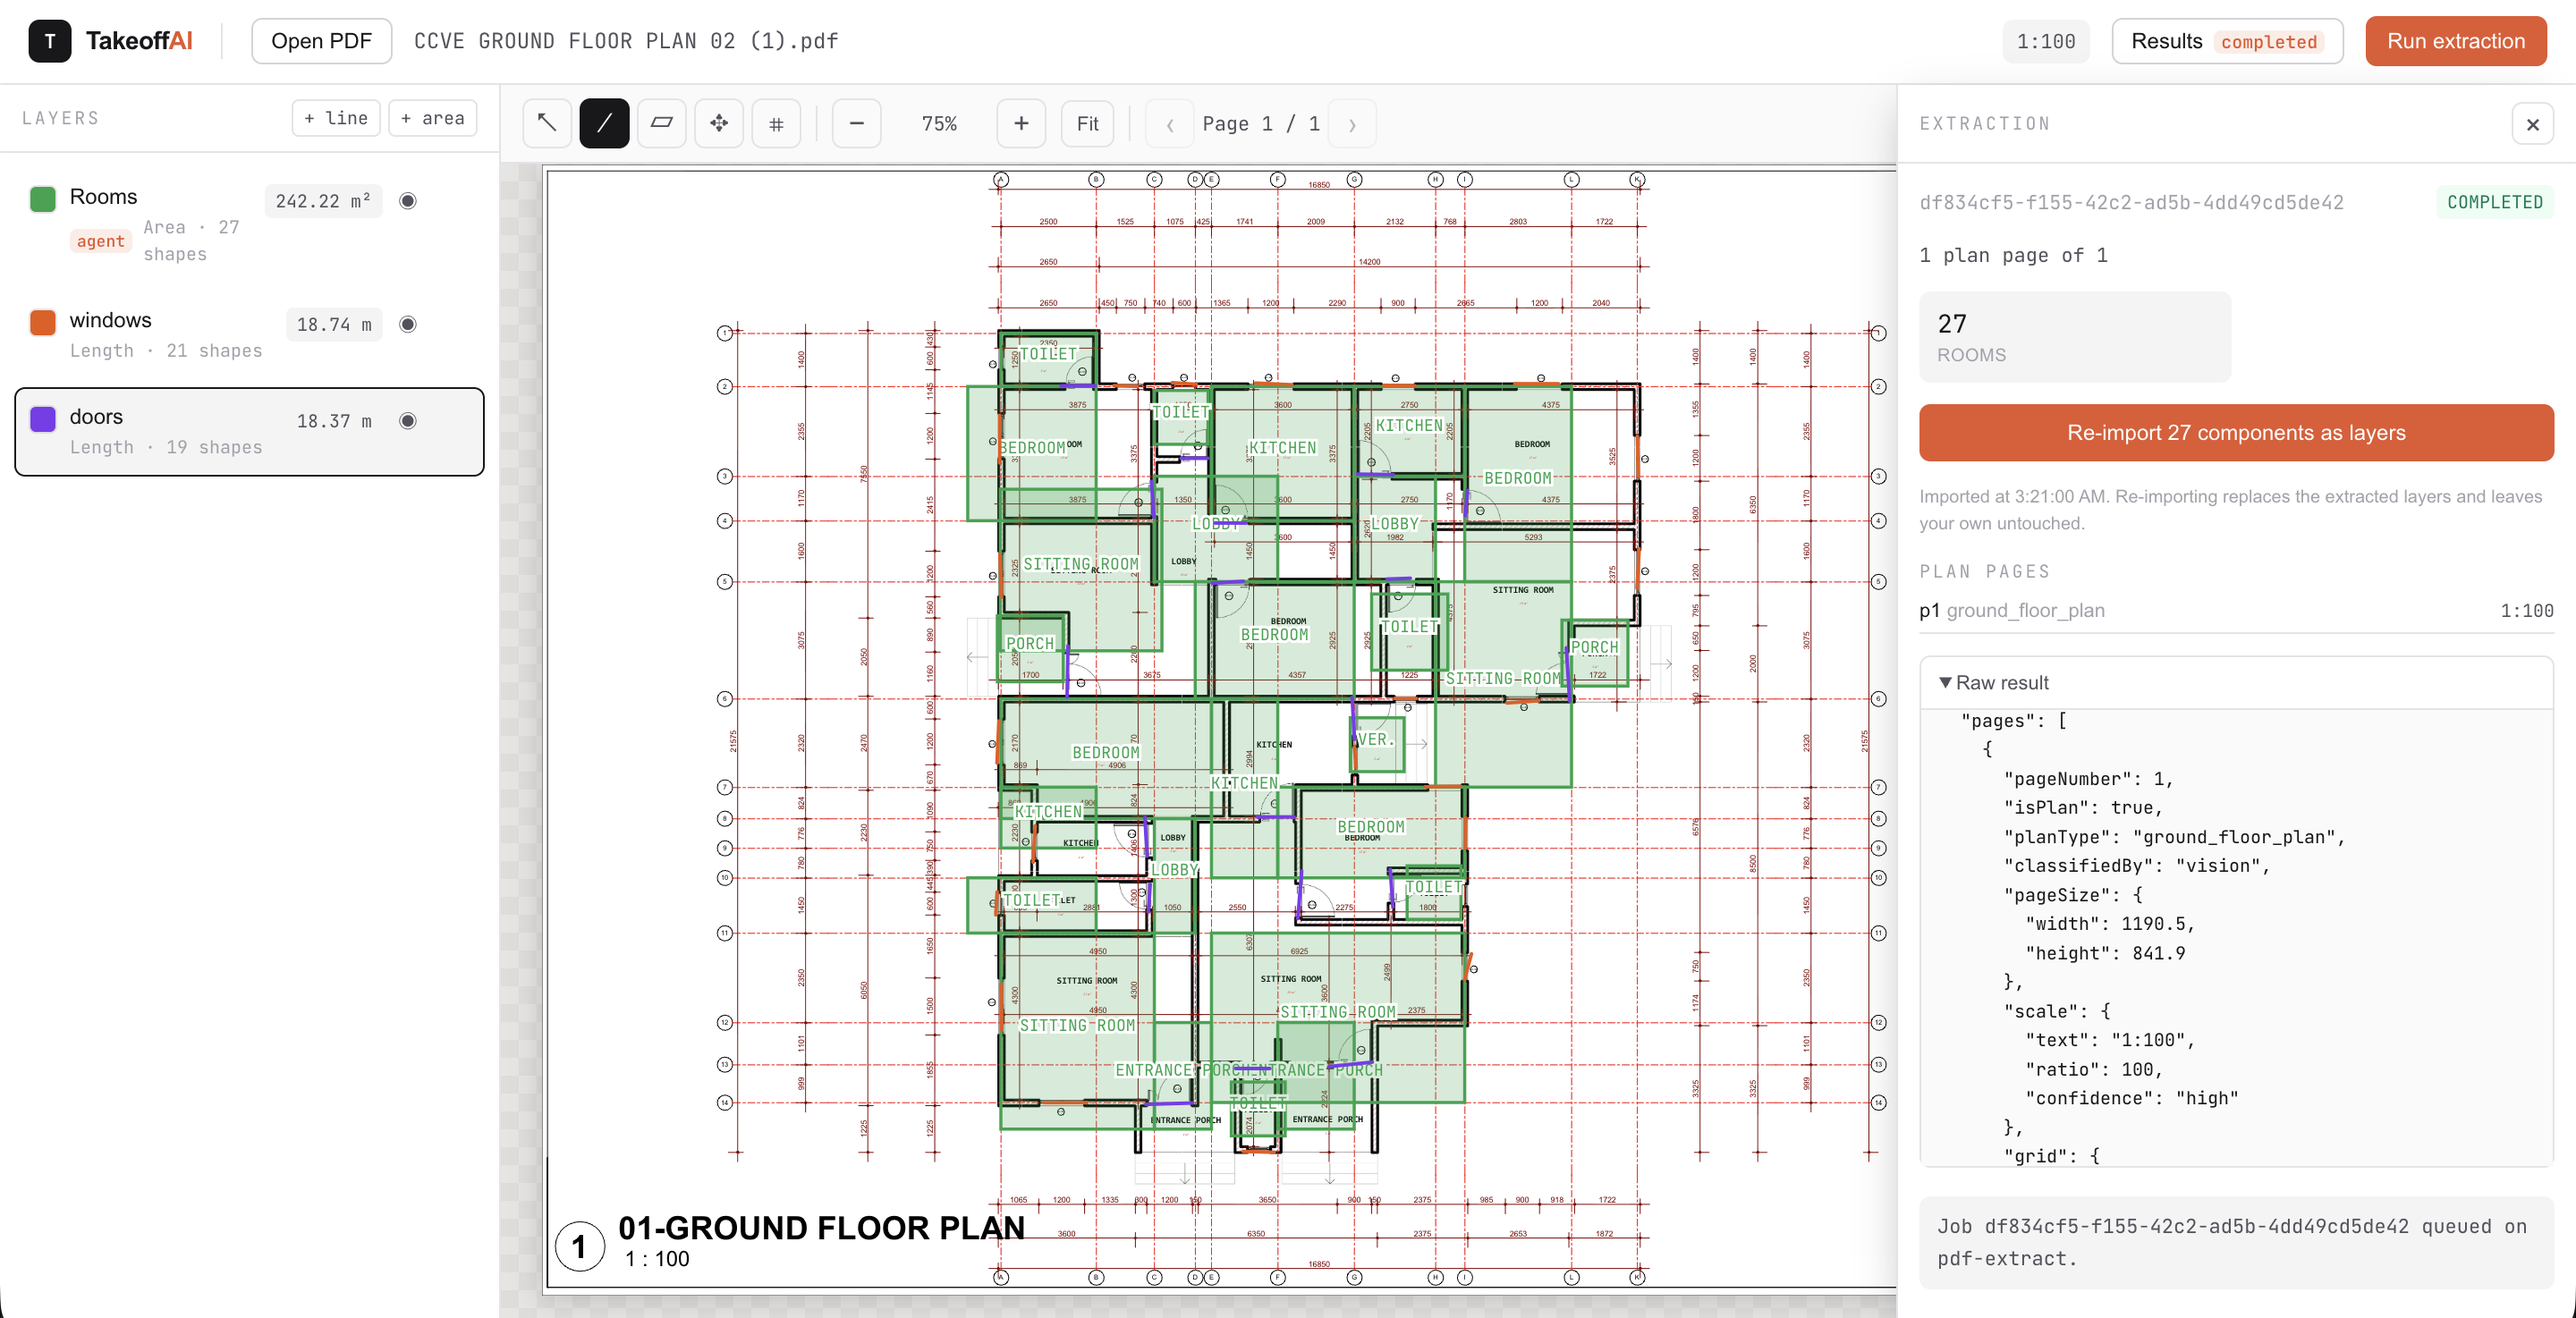
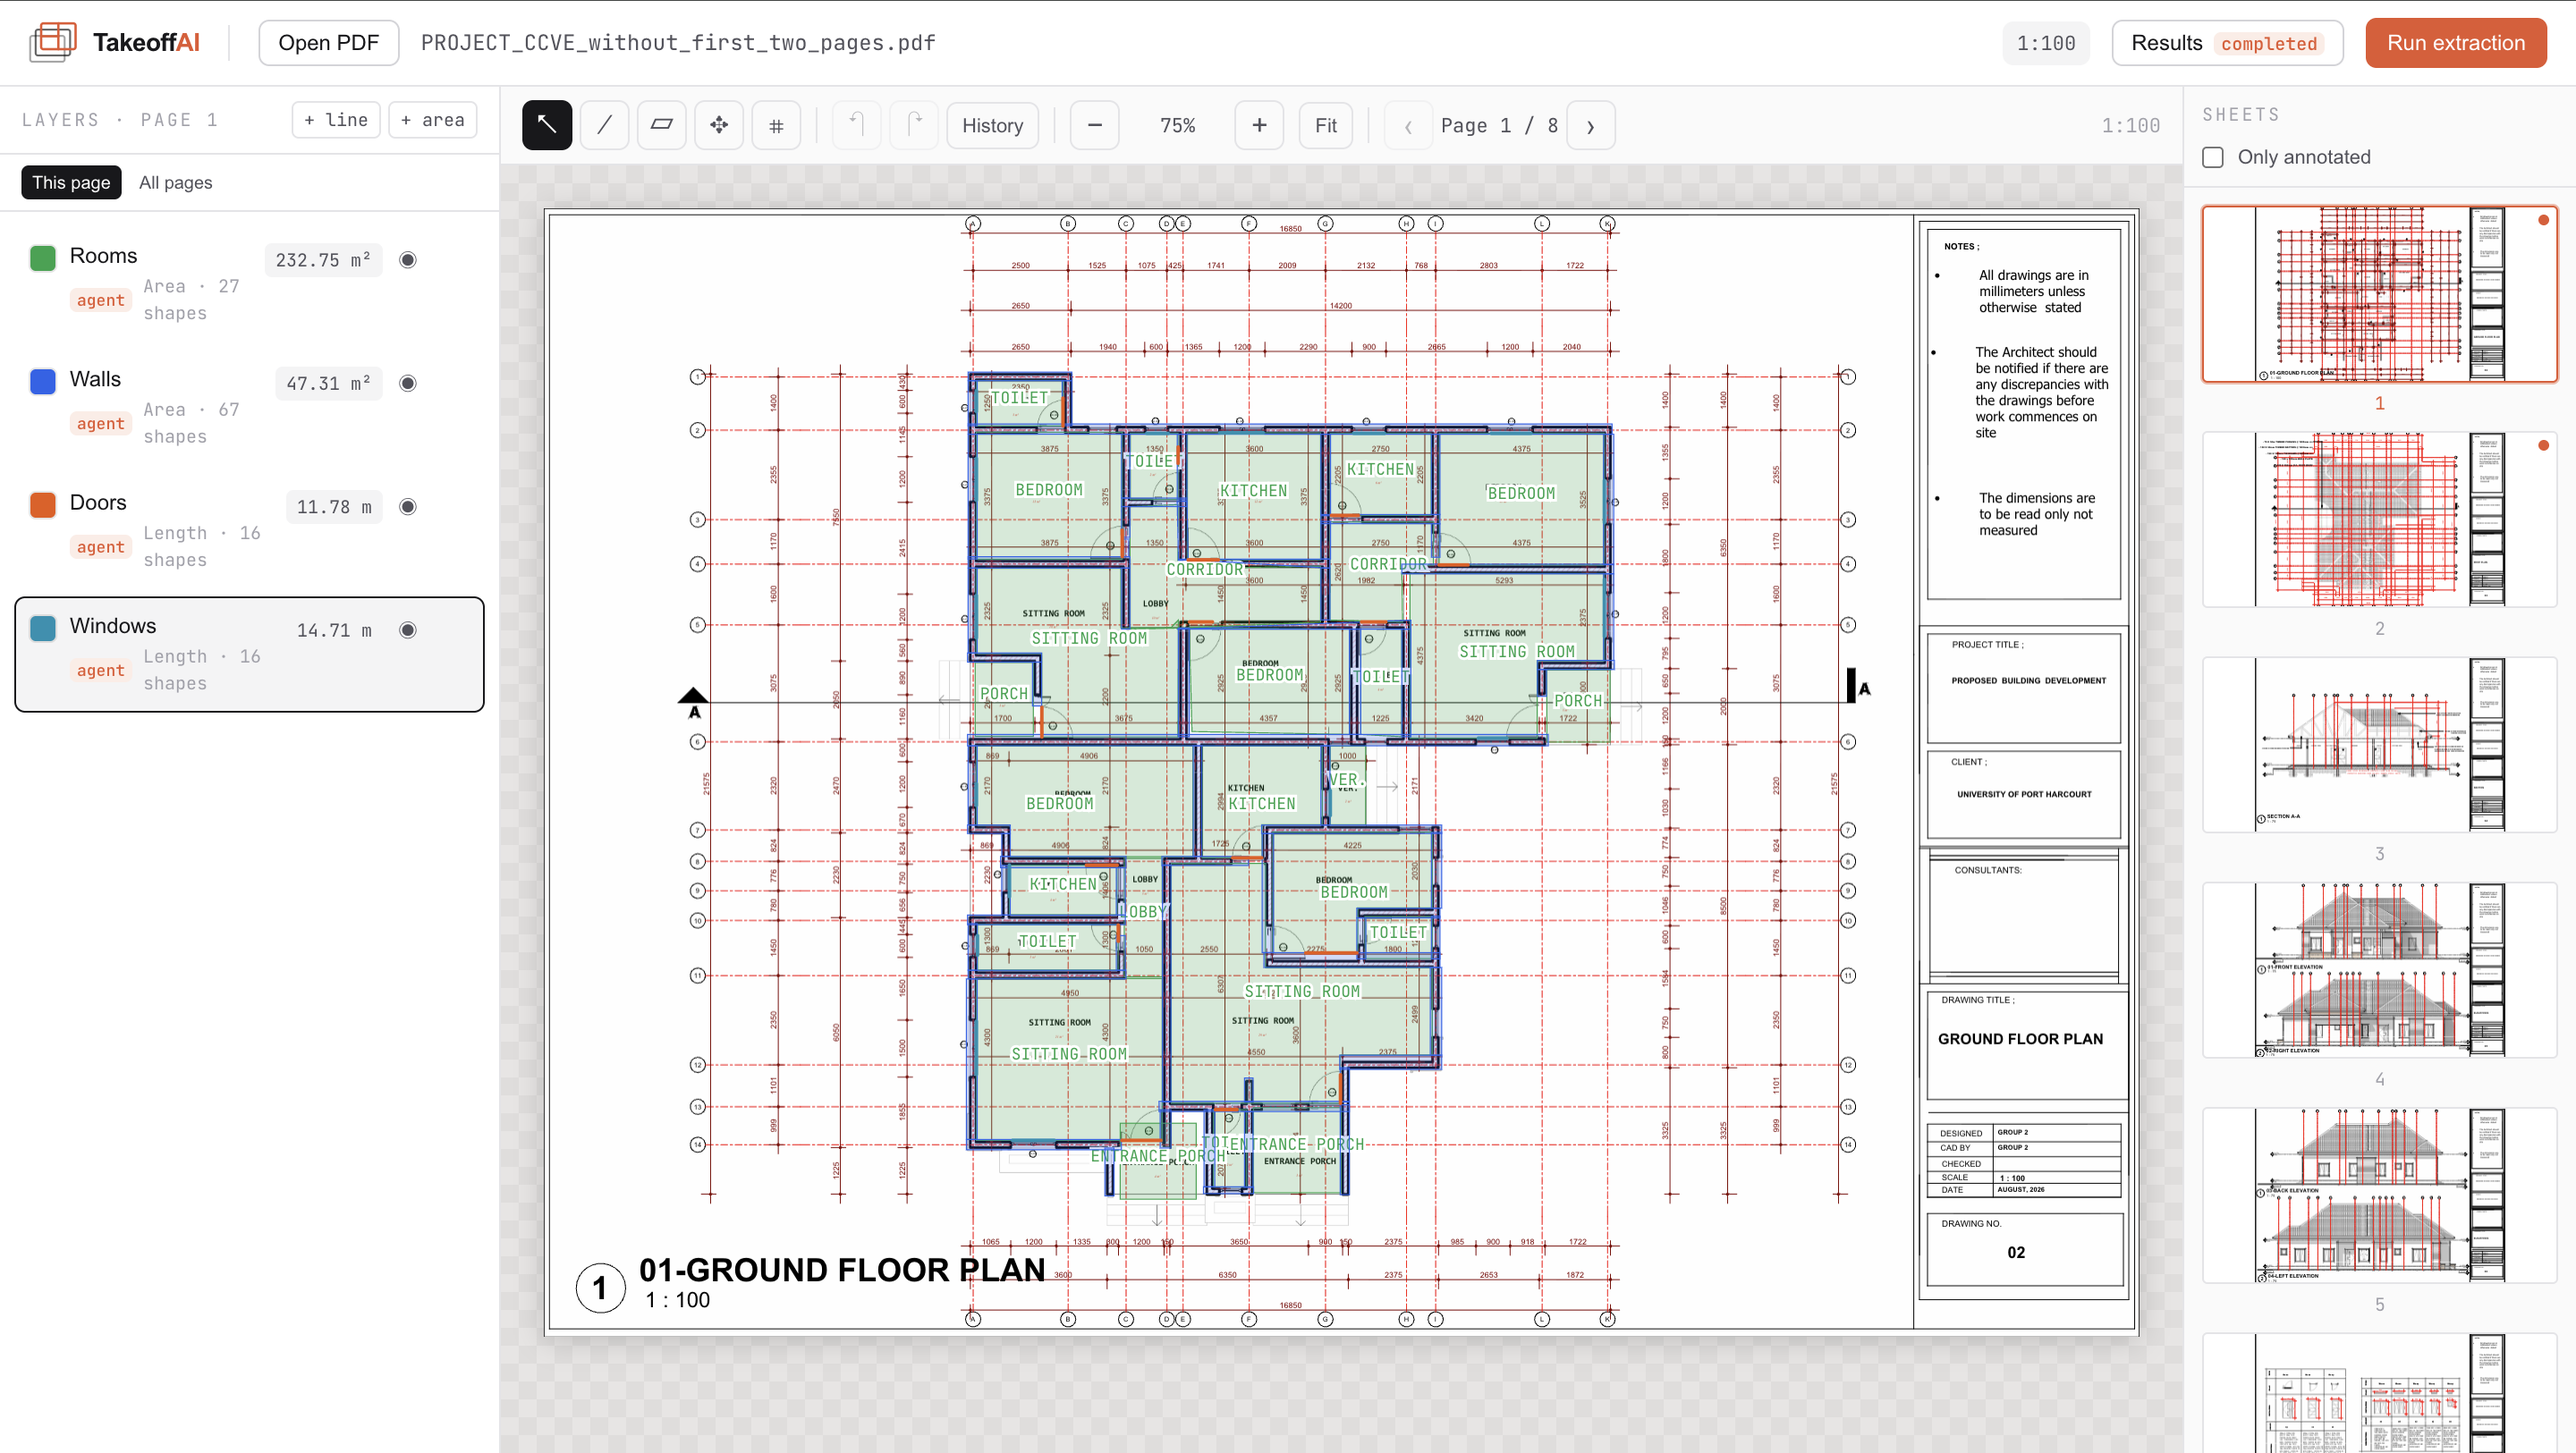
feat: Update feature descriptions for clarity and accuracy; remove unused dependencies

Changed region(s): [[0.0, 0.0, 1.0, 1.0], [0.0625, 0.4681, 0.0938, 0.4993]]

diff --git a/landing-page/components/hero.tsx b/landing-page/components/hero.tsx
@@ -31,7 +31,7 @@ export function Hero() {
         </h1>
 
         <p className="mt-6 max-w-2xl text-lg leading-relaxed text-ink-soft">
-          TakeoffAI reads vector-based AEC drawings, then hands you editable line and area layers with a precise Bill of Quantities. Every quantity traces back to the sheet, so review takes minutes instead of an afternoon with a scale rule.
+          TakeoffAI reads AEC drawings, whether vector PDFs or scanned raster sheets, then hands you editable line and area layers with a precise Bill of Quantities. Every quantity traces back to the sheet, so review takes minutes instead of an afternoon with a scale rule.
         </p>
 
         <div className="mt-9 flex flex-wrap items-center gap-3">

diff --git a/landing-page/components/features.tsx b/landing-page/components/features.tsx
@@ -19,8 +19,8 @@ const FEATURES: Feature[] = [
     body: 'Polylines total their length; closed regions total their area with the shoelace formula. Both read in mm, m, or m².'
   },
   {
-    title: 'Vector-accurate geometry',
-    body: 'Measurements come from the PDF’s own line segments and coordinates, not from pixels guessed off a raster image.'
+    title: 'Vector and scanned PDFs',
+    body: 'CAD exports and scanned raster sheets both work. Every measurement is taken off the drawing at its calibrated scale, whichever kind of PDF it came from.'
   },
   {
     title: 'Sheet-set navigation',

diff --git a/landing-page/components/how-it-works.tsx b/landing-page/components/how-it-works.tsx
@@ -8,7 +8,7 @@ const STEPS: Step[] = [
   {
     index: '01',
     title: 'Upload Drawing set',
-    body: 'Drop in a vector plan PDF. Pages render locally in the browser, then are stored securely on our server'
+    body: 'Drop in a plan PDF, vector or scanned. Pages render locally in the browser, then are stored securely on our server'
   },
   {
     index: '02',
